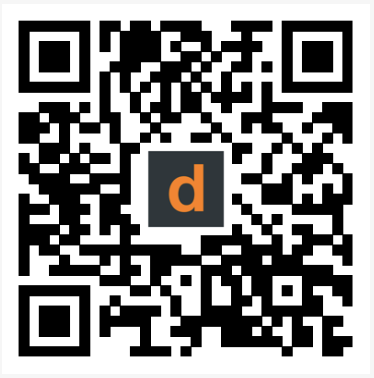
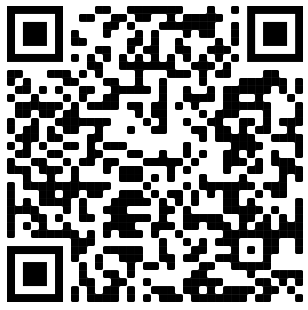
Readme updated

diff --git a/README.md b/README.md
@@ -29,4 +29,4 @@ width="200" height="200">
 ___
 
 ## Or get apk
-[Download here](https://i.diawi.com/3B3vWx)
+[Download here](https://raw.githubusercontent.com/danishjamal104/Pets/master/Apk/app-release.apk)
